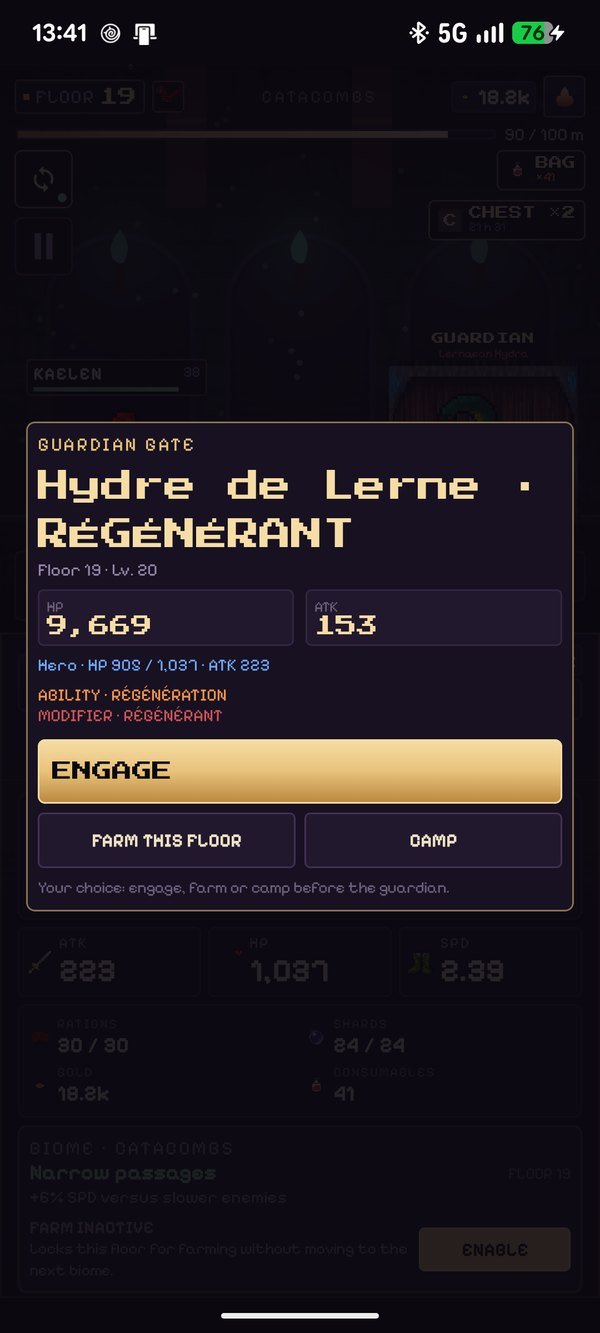
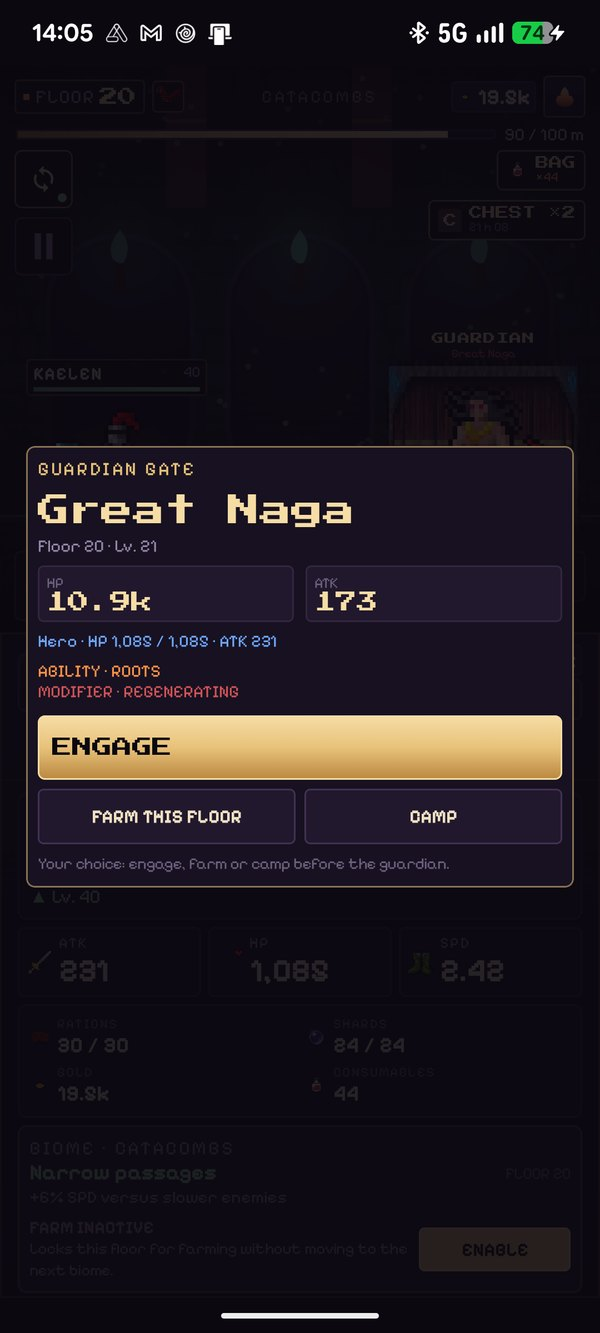
fix : localise le portail et sa capture EN

diff --git a/android/app/src/main/java/com/brunothesatellite/idlesteprpg/ui/Overlays.kt b/android/app/src/main/java/com/brunothesatellite/idlesteprpg/ui/Overlays.kt
@@ -1110,7 +1110,7 @@ fun GuardianGateDialog(
             SectionLabel(stringResource(R.string.gate_title), color = Gold)
             Spacer(Modifier.height(5.dp))
             Text(
-                boss.enemyName,
+                localizedCreature(boss.enemyName.substringBefore(" · ")),
                 fontFamily = Press,
                 fontSize = 12.sp,
                 color = GoldLight,
@@ -1150,14 +1150,14 @@ fun GuardianGateDialog(
             if (boss.abilityLabel.isNotBlank()) {
                 Spacer(Modifier.height(5.dp))
                 Text(
-                    stringResource(R.string.gate_ability, boss.abilityLabel),
+                    stringResource(R.string.gate_ability, localizedAbility(boss.abilityLabel)),
                     fontSize = 6.4.sp,
                     color = Ember
                 )
             }
             if (boss.modifier.isNotBlank()) {
                 Text(
-                    stringResource(R.string.gate_modifier, boss.modifier),
+                    stringResource(R.string.gate_modifier, modifierLabelRes(boss.modifier)),
                     fontSize = 6.4.sp,
                     color = Blood
                 )

diff --git a/android/app/src/main/java/com/brunothesatellite/idlesteprpg/ui/ContentText.kt b/android/app/src/main/java/com/brunothesatellite/idlesteprpg/ui/ContentText.kt
@@ -599,6 +599,23 @@ fun localizedCreature(raw: String): String =
 fun localizedTier(raw: String): String = tierRes(LocalContext.current.resources, raw)
 
 @Composable
+fun localizedAbility(raw: String): String {
+    val res = LocalContext.current.resources
+    val key = when (raw) {
+        "DRAIN D'ÂME" -> R.string.dashboard_ability_drain
+        "RÉGÉNÉRATION" -> R.string.dashboard_ability_regen
+        "RACINES" -> R.string.dashboard_ability_roots
+        "ACIDE" -> R.string.dashboard_ability_acid
+        "SOUFFLE" -> R.string.dashboard_ability_breath
+        "BLINDAGE" -> R.string.dashboard_ability_shield
+        "PRESSION" -> R.string.dashboard_ability_pressure
+        "FRAPPE LOURDE" -> R.string.dashboard_ability_slam
+        else -> null
+    }
+    return key?.let { res.getString(it) } ?: raw
+}
+
+@Composable
 fun localizedZoneName(raw: String): String = zoneRes(LocalContext.current.resources, raw)
 
 @Composable
